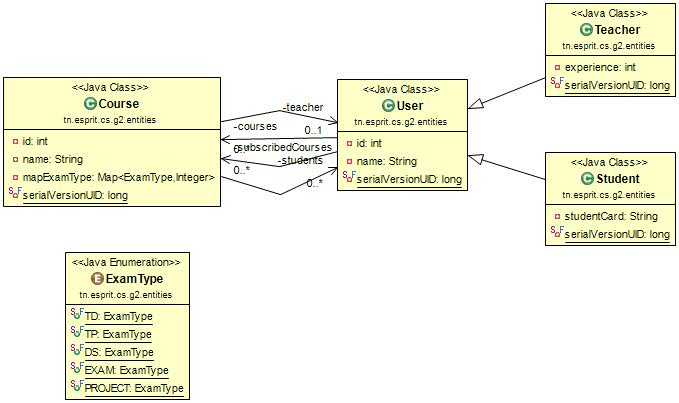
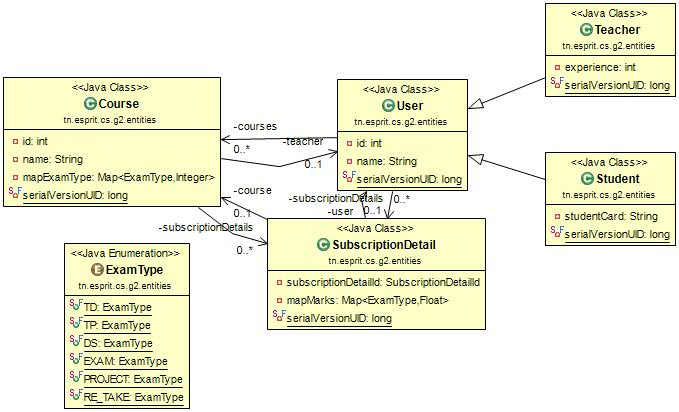
subscribe

diff --git a/lms-box/lms-box-ejb/src/main/java/tn/esprit/cs/g2/entities/SubscriptionDetail.java b/lms-box/lms-box-ejb/src/main/java/tn/esprit/cs/g2/entities/SubscriptionDetail.java
@@ -7,6 +7,7 @@ import javax.persistence.Convert;
 import javax.persistence.ElementCollection;
 import javax.persistence.EmbeddedId;
 import javax.persistence.Entity;
+import javax.persistence.JoinColumn;
 import javax.persistence.ManyToOne;
 
 /**
@@ -21,17 +22,29 @@ public class SubscriptionDetail implements Serializable {
 	@ElementCollection
 	@Convert(converter = ExamTypeConverter.class, attributeName = "key")
 	private Map<ExamType, Float> mapMarks;
-	
+
+	private Boolean stateOfValidation;
+
 	@ManyToOne
+	@JoinColumn(name = "idUser", referencedColumnName = "id", updatable = false, insertable = false)
 	private User user;
-	
+
 	@ManyToOne
+	@JoinColumn(name = "idCourse", referencedColumnName = "id", updatable = false, insertable = false)
 	private Course course;
-	
+
 	private static final long serialVersionUID = 1L;
 
 	public SubscriptionDetail() {
 		super();
+	}
+
+	public SubscriptionDetail(User user, Course course) {
+		super();
+		this.user = user;
+		this.course = course;
+		this.stateOfValidation = false;
+		this.subscriptionDetailId = new SubscriptionDetailId(user.getId(), course.getId());
 	}
 
 	public Map<ExamType, Float> getMapMarks() {
@@ -64,6 +77,14 @@ public class SubscriptionDetail implements Serializable {
 
 	public void setCourse(Course course) {
 		this.course = course;
+	}
+
+	public Boolean getStateOfValidation() {
+		return stateOfValidation;
+	}
+
+	public void setStateOfValidation(Boolean stateOfValidation) {
+		this.stateOfValidation = stateOfValidation;
 	}
 
 }

diff --git a/lms-box/lms-box-ejb/src/main/java/tn/esprit/cs/g2/entities/SubscriptionDetailId.java b/lms-box/lms-box-ejb/src/main/java/tn/esprit/cs/g2/entities/SubscriptionDetailId.java
@@ -1,6 +1,7 @@
 package tn.esprit.cs.g2.entities;
 
 import java.io.Serializable;
+import java.util.Date;
 
 import javax.persistence.Embeddable;
 
@@ -14,6 +15,7 @@ public class SubscriptionDetailId implements Serializable {
 
 	private int idUser;
 	private int idCourse;
+	private Date dateOfTheSubscription;
 
 	public SubscriptionDetailId() {
 	}
@@ -22,6 +24,7 @@ public class SubscriptionDetailId implements Serializable {
 		super();
 		this.idUser = idUser;
 		this.idCourse = idCourse;
+		this.dateOfTheSubscription = new Date();
 	}
 
 	public int getIdUser() {
@@ -63,6 +66,14 @@ public class SubscriptionDetailId implements Serializable {
 		if (idUser != other.idUser)
 			return false;
 		return true;
+	}
+
+	public Date getDateOfTheSubscription() {
+		return dateOfTheSubscription;
+	}
+
+	public void setDateOfTheSubscription(Date dateOfTheSubscription) {
+		this.dateOfTheSubscription = dateOfTheSubscription;
 	}
 
 }

diff --git a/lms-box/lms-box-ejb/src/main/java/tn/esprit/cs/g2/services/CourseManagement.java b/lms-box/lms-box-ejb/src/main/java/tn/esprit/cs/g2/services/CourseManagement.java
@@ -10,7 +10,9 @@ import javax.persistence.Query;
 
 import tn.esprit.cs.g2.entities.Course;
 import tn.esprit.cs.g2.entities.Student;
+import tn.esprit.cs.g2.entities.SubscriptionDetail;
 import tn.esprit.cs.g2.entities.Teacher;
+import tn.esprit.cs.g2.entities.User;
 
 /**
  * Session Bean implementation class CourseManagement
@@ -53,8 +55,11 @@ public class CourseManagement implements CourseManagementRemote, CourseManagemen
 
 	@Override
 	public void subscibeToCourse(int idCourse, int idStudent) {
-		// TODO Auto-generated method stub
-		
+		Course courseFound = findCourseById(idCourse);
+		User userFound = userManagementLocal.findUserById(idStudent);
+
+		SubscriptionDetail subscriptionDetail = new SubscriptionDetail(userFound, courseFound);
+		entityManager.merge(subscriptionDetail);
 	}
 
 	@Override

diff --git a/lms-box-client/src/main/java/courseManagementGUI/TestSubscribeToCourse.java b/lms-box-client/src/main/java/courseManagementGUI/TestSubscribeToCourse.java
@@ -1,0 +1,18 @@
+package courseManagementGUI;
+
+import javax.naming.Context;
+import javax.naming.InitialContext;
+import javax.naming.NamingException;
+
+import tn.esprit.cs.g2.services.CourseManagementRemote;
+
+public class TestSubscribeToCourse {
+	public static void main(String[] args) throws NamingException {
+		Context context = new InitialContext();
+		CourseManagementRemote courseManagementRemote = (CourseManagementRemote) context
+				.lookup("lms-box-ear/lms-box-ejb/CourseManagement!tn.esprit.cs.g2.services.CourseManagementRemote");
+
+		courseManagementRemote.subscibeToCourse(1, 3);
+
+	}
+}

diff --git a/lms-box/lms-box-ejb/src/main/java/tn/esprit/cs/g2/services/CourseManagementRemote.java b/lms-box/lms-box-ejb/src/main/java/tn/esprit/cs/g2/services/CourseManagementRemote.java
@@ -18,5 +18,6 @@ public interface CourseManagementRemote {
 	List<Student> findAllStudentsByCourseId(int idCourse);
 
 	List<Course> findAllCoursesByIdUser(int idUser);
+	
 
 }
